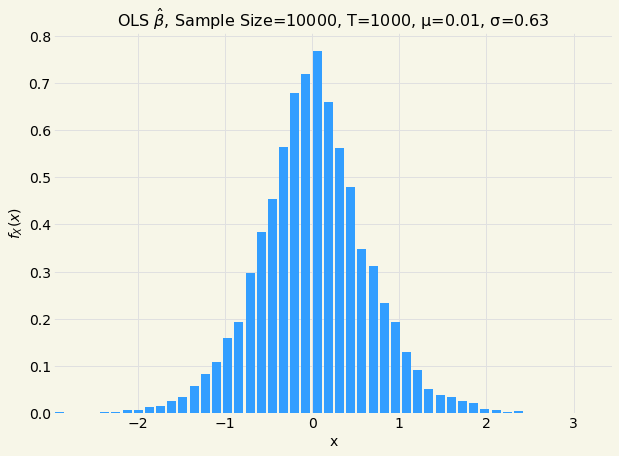
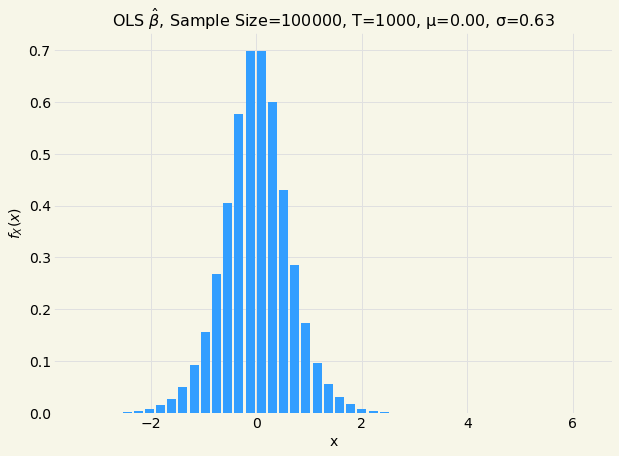
finished distribution simulation plots

diff --git a/hydrogen_notebooks/algorithmic_trading/mean_reversion/spurious_regession_distribution.py b/hydrogen_notebooks/algorithmic_trading/mean_reversion/spurious_regession_distribution.py
@@ -19,6 +19,12 @@ pyplot.style.use(config.glyfish_style)
 
 # %%
 
+def normal(σ=1.0, μ=0.0):
+    def f(x):
+        ε = (x - μ)**2/(2.0*σ**2)
+        return numpy.exp(-ε)/numpy.sqrt(2.0*numpy.pi*σ**2)
+    return f
+
 def brownian_motion(n):
     φ = numpy.array([1.0])
     δ = numpy.array([])
@@ -26,20 +32,19 @@ def brownian_motion(n):
 
 # stochastic integral simulation
 # \sqrt{\int_0^1{B_y^2(s)ds}}
-def denominator_integral(n):
-    yt2 = brownian_motion(n)**2
-    return numpy.sum(yt2)/float(n**2)
+def denominator_integral(yt, n):
+    return numpy.sum(yt**2)/float(n**2)
 
 # \sqrt{\int_0^1{B_y(s)B_x(s)ds}}
-def numerator_integral(n):
-    yt = brownian_motion(n)
-    xt = brownian_motion(n)
+def numerator_integral(xt, yt, n):
     return numpy.sum(yt*xt)/float(n**2)
 
 def beta_distribution_sample(npt, nsample):
     beta = numpy.zeros(nsample)
     for i in range(nsample):
-        beta[i] = numerator_integral(npt) / denominator_integral(npt)
+        yt = brownian_motion(n)
+        xt = brownian_motion(n)
+        beta[i] = numerator_integral(xt, yt, npt) / denominator_integral(yt, npt)
     return beta
 
 def beta_estimate_sample(npt, nsample):
@@ -88,6 +93,26 @@ def regression_plot(xt, yt, params, err, β_r_squared, legend_anchor, title, plo
     axis.legend(bbox_to_anchor=legend_anchor).set_zorder(7)
     config.save_post_asset(figure, "mean_reversion", plot_name)
 
+def distribution_comparison_plot(pdf, samples, title, plot, label=None, xrange=None, ylimit=None, bins=50, title_offset=1.0):
+    figure, axis = pyplot.subplots(figsize=(10, 7))
+    axis.set_ylabel(r"$f_X(x)$")
+    axis.set_xlabel(r"x")
+    axis.set_title(title, y=title_offset)
+    axis.set_prop_cycle(config.distribution_sample_cycler)
+    _, bins, _ = axis.hist(samples, bins, rwidth=0.8, density=True, label=f"Samples", zorder=5)
+    if xrange is None:
+        delta = (bins[-1] - bins[0]) / 500.0
+        xrange = numpy.arange(bins[0], bins[-1], delta)
+    sample_distribution = [pdf(val) for val in xrange]
+    axis.set_xlim([xrange[0], xrange[-1]])
+    if ylimit is not None:
+        axis.set_ylim(ylimit)
+    if label is None:
+        label=f"Target PDF"
+    axis.plot(xrange, sample_distribution, label=label, zorder=6)
+    axis.legend(bbox_to_anchor=(0.75, 0.9))
+    config.save_post_asset(figure, "regression", plot)
+
 def distribution_plot(samples, title, plot, xrange=None, ylimit=None, bins=50, title_offset=1.0):
     figure, axis = pyplot.subplots(figsize=(10, 7))
     axis.set_ylabel(r"$f_X(x)$")
@@ -133,7 +158,7 @@ regression_plot(xt, yt, params, err, rsquard, [0.7, 0.4], title, plot_name)
 # %%
 
 npt = 1000
-nsample = 10000
+nsample = 100000
 
 β_estimate = beta_estimate_sample(npt, nsample)
 
@@ -143,12 +168,12 @@ mean = numpy.mean(β_estimate)
 sigma = numpy.sqrt(numpy.var(β_estimate))
 title = r"OLS $\hat{\beta}$, " + f"Sample Size={nsample}, T={n}, μ={format(mean, '1.2f')}, σ={format(sigma, '1.2f')}"
 plot_name = "cointegration_spurious_correlation_distribution_β_estimate"
-distribution_plot(β_estimate, title, plot_name)
+distribution_comparison_plot(normal(σ=sigma, μ=mean), β_estimate, title, plot_name, label="Normal PDF")
 
 # %%
 
 npt = 1000
-nsample = 10000
+nsample = 100000
 
 β_samples = beta_distribution_sample(npt, nsample)
 
@@ -158,4 +183,4 @@ mean = numpy.mean(β_samples)
 sigma = numpy.sqrt(numpy.var(β_samples))
 title = r"$\beta=\frac{\int_{0}^{1}B_x(s)B_y(s)ds}{\int_{0}^{1}B_y^2(s)ds}$, " + f"Sample Size={nsample}, T={n}, μ={format(mean, '1.2f')}, σ={format(sigma, '1.2f')}"
 plot_name = "cointegration_spurious_correlation_distribution_β_simulation"
-distribution_plot(β_samples, title, plot_name,title_offset=1.05)
+distribution_comparison_plot(normal(σ=sigma, μ=mean), β_samples, title, plot_name, label="Normal PDF",title_offset=1.05)
